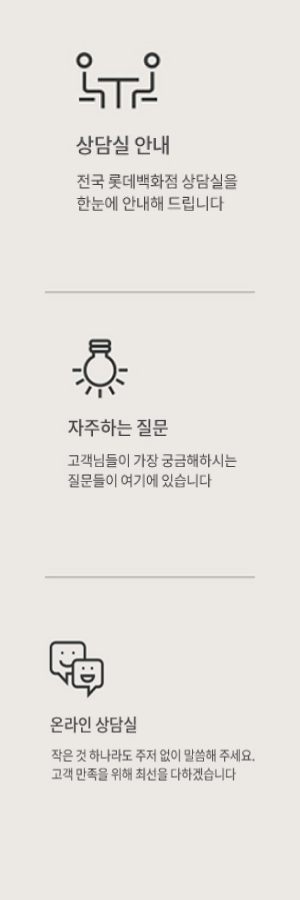
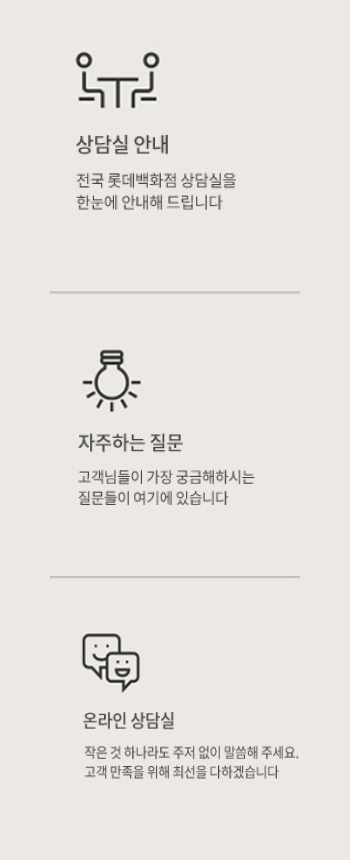
first upload

diff --git a/css/style.css b/css/style.css
@@ -69,7 +69,7 @@ body{font-family: 'Noto Sans KR', sans-serif; /* background-color: rgb(199, 231,
 .header-menu .header-menu-flex #nav>ul{display: flex; justify-content: space-between;}
 .header-menu .header-menu-flex #nav>ul>li:not(:last-child){margin-right: 75px;}
 .header-menu .header-menu-flex #nav>ul>li:first-child{margin-left: 0;}
-.header-menu .header-menu-flex #nav>ul>li>a{font-size: 18px; color: var(--main-g-color); position: relative;}
+.header-menu .header-menu-flex #nav>ul>li>a{font-size: 18px; color: var(--main-g-color); position: relative; height: 89px; line-height: 89px;}
 .header-menu .header-menu-flex #nav>ul>li>a::after{content: ""; position: absolute; left: 0; bottom: -10px; width: 0px; height: 2px; margin: 5px 0 0; transition: all 0.2s ease-in-out; transition-duration: 0.3s; opacity: 0; background-color: #000;}
 .header-menu .header-menu-flex #nav>ul>li>a:hover:after{width: 100%; opacity: 1;} 
 .header-menu .header-menu-flex #nav>ul>li>a:hover{color: #000;}
@@ -89,6 +89,7 @@ body{font-family: 'Noto Sans KR', sans-serif; /* background-color: rgb(199, 231,
 .header-menu .header-menu-flex #nav>ul>li.menu01>a:hover ~ .ul_wrap>ul>li:first-child>ul{animation: fadein01 3s; display: block;}
 .header-menu .header-menu-flex #nav>ul>li.menu01>.ul_wrap>ul>li:first-child>ul>li>a{font-weight: 700;font-size: 15px;}
 .header-menu .header-menu-flex #nav>ul>li.menu01>.ul_wrap>ul>li>ul>.seoul_wrap{width: 33.333%;}
+.header-menu .header-menu-flex #nav>ul>li.menu01>.ul_wrap>ul>li>ul>li>a:hover{font-weight: bold;}
 .header-menu .header-menu-flex #nav>ul>li.menu01>.ul_wrap>ul>li>ul>li>ul>li>a{color: #8c8c8c; padding: 8px 0;font-size: 15px;}
 .header-menu .header-menu-flex #nav>ul>li.menu01>.ul_wrap>ul>li>ul>li>ul>li>a:hover{font-weight: bold;}
 .header-menu .header-menu-flex #nav>ul>li.menu01>.ul_wrap>ul>li>ul>li{float: left;}
@@ -114,7 +115,7 @@ body{font-family: 'Noto Sans KR', sans-serif; /* background-color: rgb(199, 231,
 .header-menu .header-menu-flex #nav>ul>li.menu01>.ul_wrap>ul>li:nth-child(4)>ul>.world_wrap{width: 15%;}
 .header-menu .header-menu-flex #nav>ul>li.menu01>.ul_wrap>ul>li:nth-child(4)>ul>.yeosu_wrap{width: 15%;}
 .header-menu .header-menu-flex #nav>ul>li.menu01>.ul_wrap>ul>li:nth-child(4)>ul>li>a{color: #8c8c8c; padding: 8px 0; display: block; font-size: 15px;}
-.header-menu .header-menu-flex #nav>ul>li.menu01>.ul_wrap>ul>li:nth-child(5)>ul{padding: 35px 0; animation: fadeout01 1.3s; display: none; width: 10%;}
+.header-menu .header-menu-flex #nav>ul>li.menu01>.ul_wrap>ul>li:nth-child(5)>ul{padding: 35px 0; animation: fadeout01 1.3s; display: none; width: 10%; height: 100%;}
 .header-menu .header-menu-flex #nav>ul>li.menu01>.ul_wrap>ul>li:nth-child(5):hover>ul{animation: fadein01 1.3s; display: block;}
 .header-menu .header-menu-flex #nav>ul>li.menu01>.ul_wrap>ul>li:nth-child(5)>ul>li>a{color: #8c8c8c; padding: 8px 0; display: block; font-size: 15px;}
 
@@ -134,6 +135,7 @@ body{font-family: 'Noto Sans KR', sans-serif; /* background-color: rgb(199, 231,
 .header-menu .header-menu-flex #nav>ul>li.menu02>a:hover ~ .ul_wrap>ul>li:first-child>ul{animation: fadein01 3s; display: block;}
 .header-menu .header-menu-flex #nav>ul>li.menu02>.ul_wrap>ul>li:first-child>ul>li>a{font-weight: 700;font-size: 15px;}
 .header-menu .header-menu-flex #nav>ul>li.menu02>.ul_wrap>ul>li>ul>.seoul_wrap{width: 33.333%;}
+.header-menu .header-menu-flex #nav>ul>li.menu02>.ul_wrap>ul>li>ul>li>a:hover{font-weight: bold;}
 .header-menu .header-menu-flex #nav>ul>li.menu02>.ul_wrap>ul>li>ul>li>ul>li>a{color: #8c8c8c; padding: 8px 0;font-size: 15px;}
 .header-menu .header-menu-flex #nav>ul>li.menu02>.ul_wrap>ul>li>ul>li>ul>li>a:hover{font-weight: bold;}
 .header-menu .header-menu-flex #nav>ul>li.menu02>.ul_wrap>ul>li>ul>li{float: left;}
@@ -159,7 +161,7 @@ body{font-family: 'Noto Sans KR', sans-serif; /* background-color: rgb(199, 231,
 .header-menu .header-menu-flex #nav>ul>li.menu02>.ul_wrap>ul>li:nth-child(4)>ul>.world_wrap{width: 15%;}
 .header-menu .header-menu-flex #nav>ul>li.menu02>.ul_wrap>ul>li:nth-child(4)>ul>.yeosu_wrap{width: 15%;}
 .header-menu .header-menu-flex #nav>ul>li.menu02>.ul_wrap>ul>li:nth-child(4)>ul>li>a{color: #8c8c8c; padding: 8px 0; display: block; font-size: 15px;}
-.header-menu .header-menu-flex #nav>ul>li.menu02>.ul_wrap>ul>li:nth-child(5)>ul{padding: 35px 0; animation: fadeout01 1.3s; display: none; width: 10%;}
+.header-menu .header-menu-flex #nav>ul>li.menu02>.ul_wrap>ul>li:nth-child(5)>ul{padding: 35px 0; animation: fadeout01 1.3s; display: none; width: 10%; height: 100%;}
 .header-menu .header-menu-flex #nav>ul>li.menu02>.ul_wrap>ul>li:nth-child(5):hover>ul{animation: fadein01 1.3s; display: block;}
 .header-menu .header-menu-flex #nav>ul>li.menu02>.ul_wrap>ul>li:nth-child(5)>ul>li>a{color: #8c8c8c; padding: 8px 0; display: block; font-size: 15px;}
 
@@ -368,7 +370,7 @@ body{font-family: 'Noto Sans KR', sans-serif; /* background-color: rgb(199, 231,
 .footer2 .f_t .f_t_l a{display: inline-block; margin-right: 20px;}
 .footer2 .f_t .f_t_l a span{font-size: 10px; margin: 4px 0 0 10px; line-height: 1.2; vertical-align:top; display: inline-block;}
 .footer2 .f_t .f_t_r{width: 160px; height: 40px; border: 1px solid #c8c8c8; text-align: center; line-height: 40px; }
-.footer2 .f_t .f_t_r ul li #moreBtn{background: none; border: none;}
+.footer2 .f_t .f_t_r ul li #moreBtn{background: none; border: none; outline: none;}
 
 .footer2 .f_b{display: flex; justify-content: space-between; margin-top: 25px;}
 .footer2 .f_b .f_b_l{color: rgba(0, 0, 0, .5); font-size: 13px;}
@@ -692,11 +694,11 @@ body{font-family: 'Noto Sans KR', sans-serif; /* background-color: rgb(199, 231,
     .section8 .s8_right strong{padding-top: 5px;}
     .section8 .s8_right ul{margin-top: 14px;}
     .section8 .s8_right ul li{width: 60px; margin-right: 26px;}
-    .section9 .s9_bottom{background: url(../img/s9_m.png) no-repeat; width: 300px; height: 900px; padding: 0; margin: 10px auto;}
+    .section9 .s9_bottom{background: url(../img/s9_m.png) no-repeat; width: 350px; height: 860px; padding: 0; margin: 10px auto;}
     .section9 .s9_bottom a{width: 124px; height: 30px; line-height: 30px;}
     .section9 .s9_bottom a.more01{position: absolute; top: 229px; left: 77px;}
-    .section9 .s9_bottom a.more02{position: absolute; top: 508px; left: 70px;}
-    .section9 .s9_bottom a.more03{position: absolute; top: 805px; left:60px;} 
+    .section9 .s9_bottom a.more02{position: absolute; top: 521px; left: 78px;}
+    .section9 .s9_bottom a.more03{position: absolute; top: 795px; left:84px;} 
 
     #footer{display: none;}
     .mobile-footer{display: block;}

diff --git a/index.html b/index.html
@@ -25,11 +25,7 @@
 
 	<link rel="shortcut icon" href="https://minfo.lotteshopping.com/content/common/favicon.ico?ver=20220801005326" type="image/x-icon">
 	<link rel="icon" href="https://minfo.lotteshopping.com/content/common/favicon.ico?ver=20220801005326" type="image/x-icon">
-<!-- 
-	<script src='js/lib/jquery-1.12.4.min.js'></script>
-	<script src='js/lib/jquery.easing.1.3.js'></script>
-	<script src='js/lib/prefixfree.min.js'></script>
-	<script src='js/lib/modernizr-custom.js'></script> -->
+	
 	<script src='https://code.jquery.com/jquery-2.2.4.min.js'></script>
 	<script src="js/script.js" defer></script>
 
